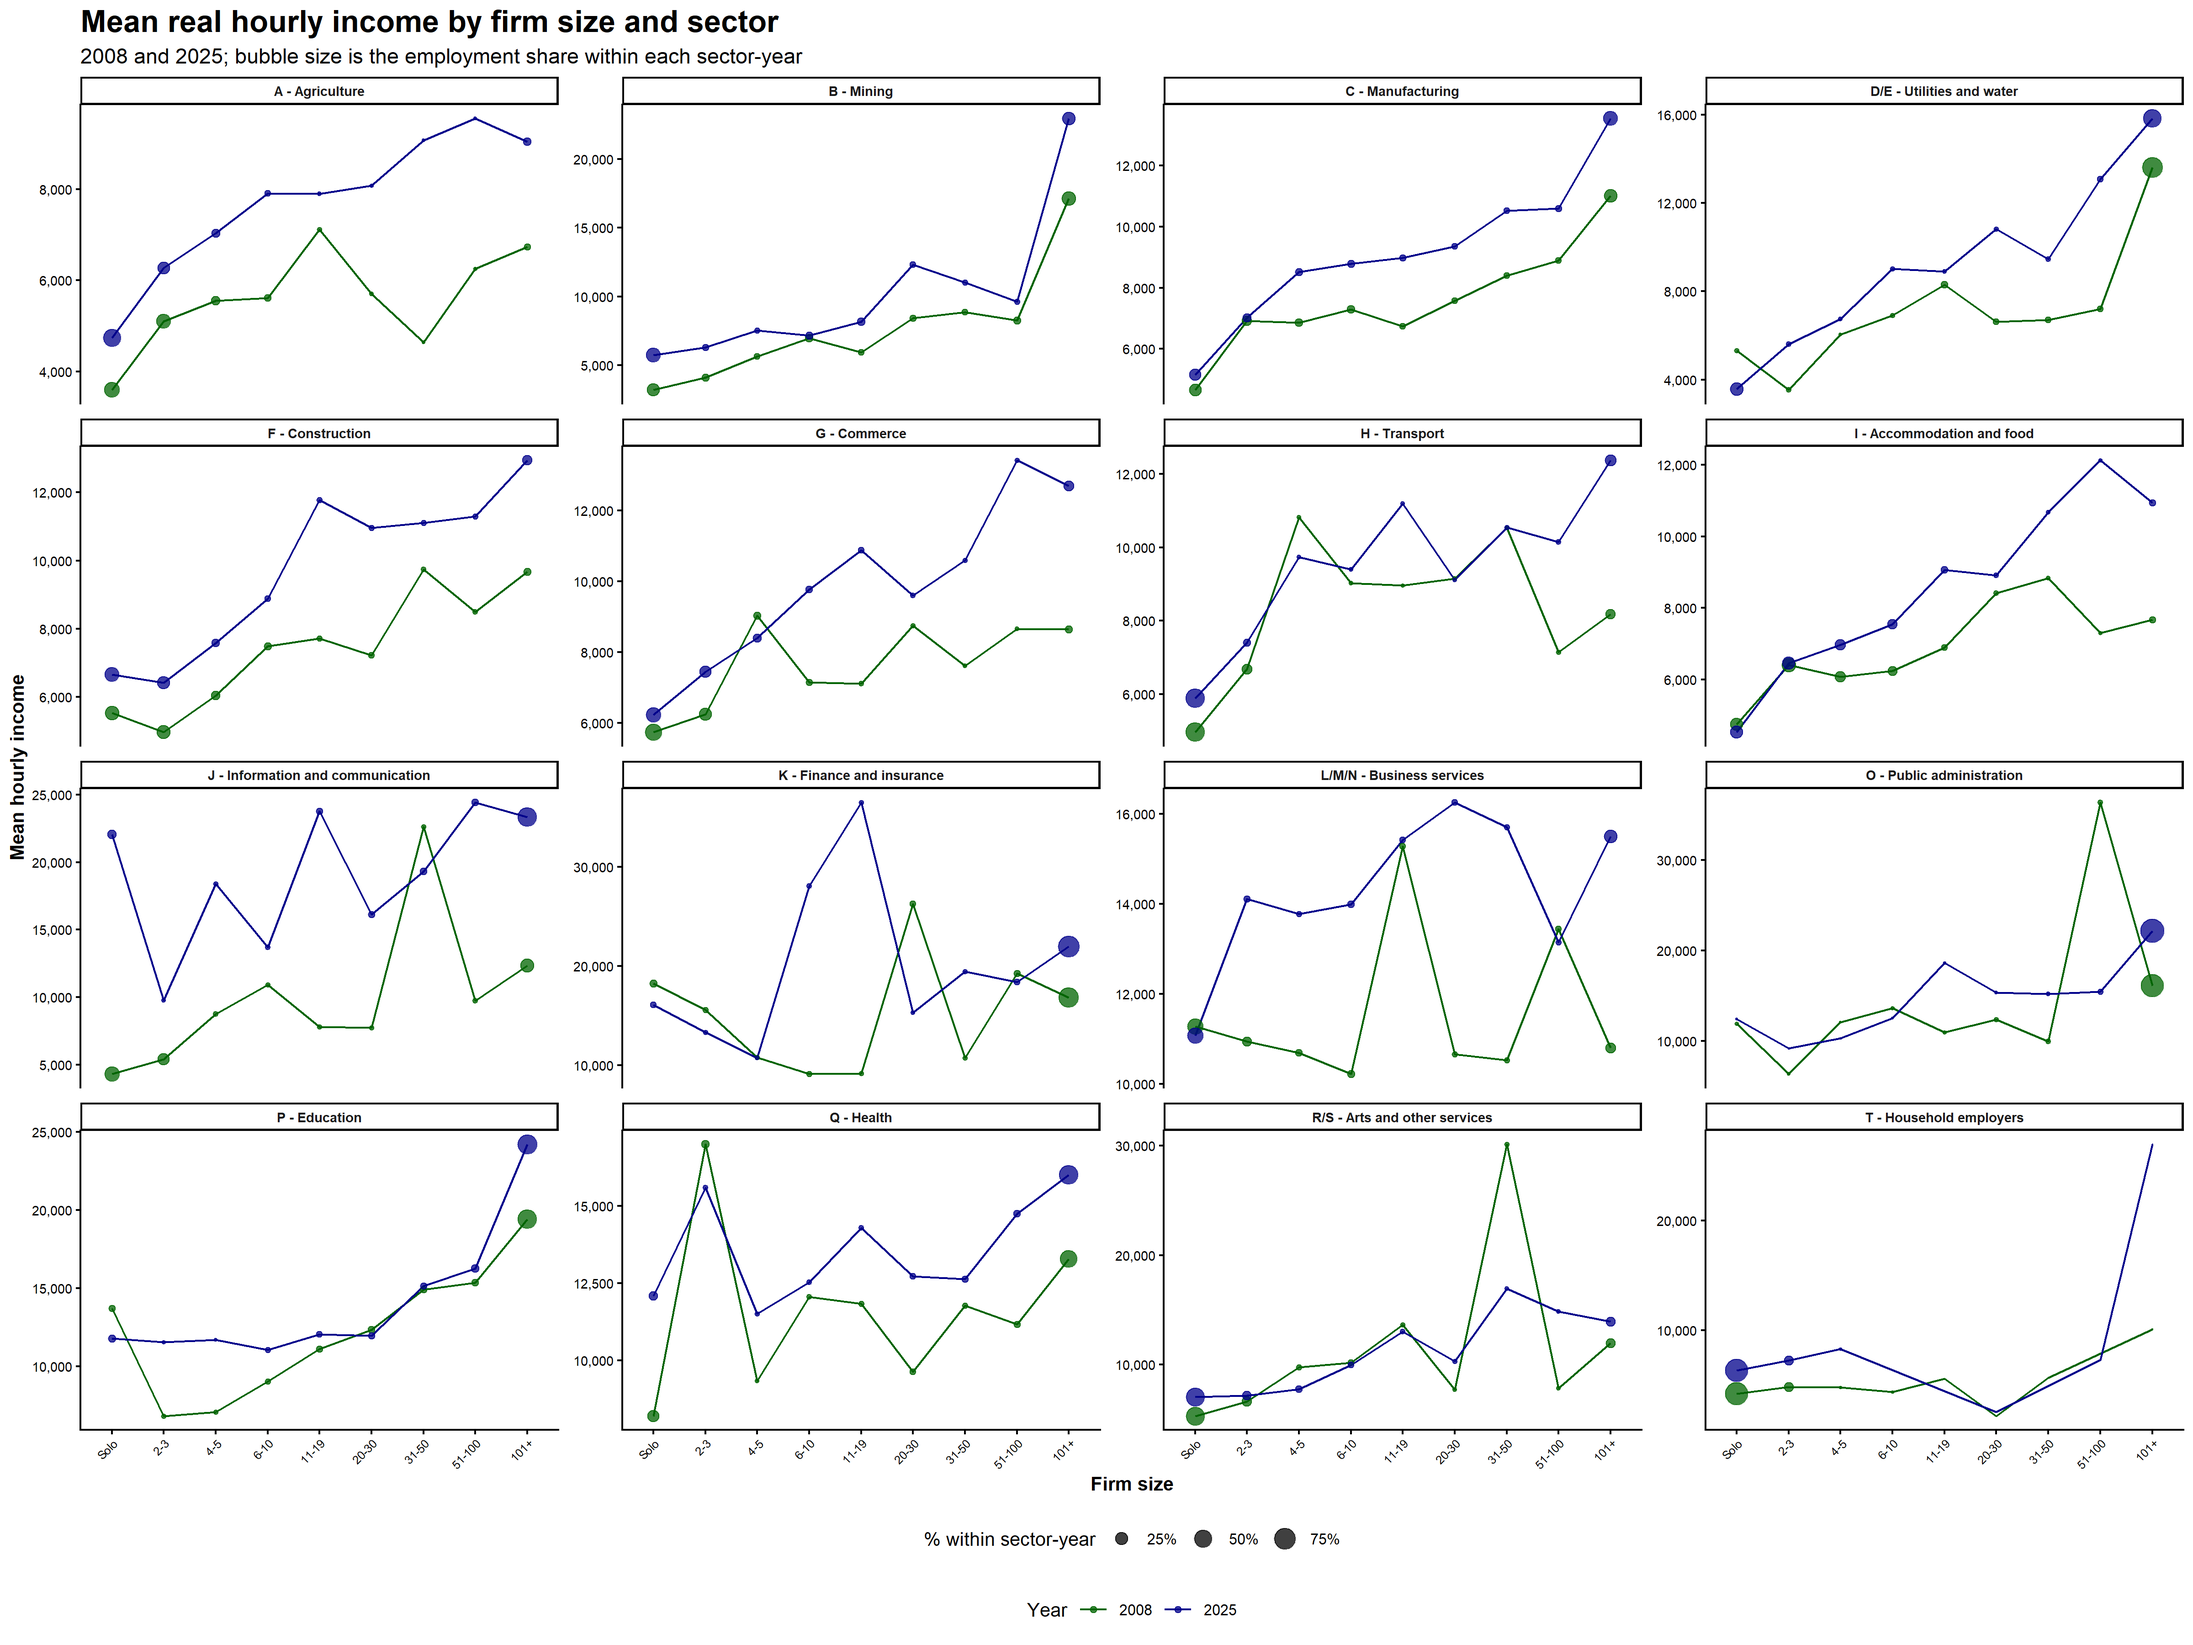
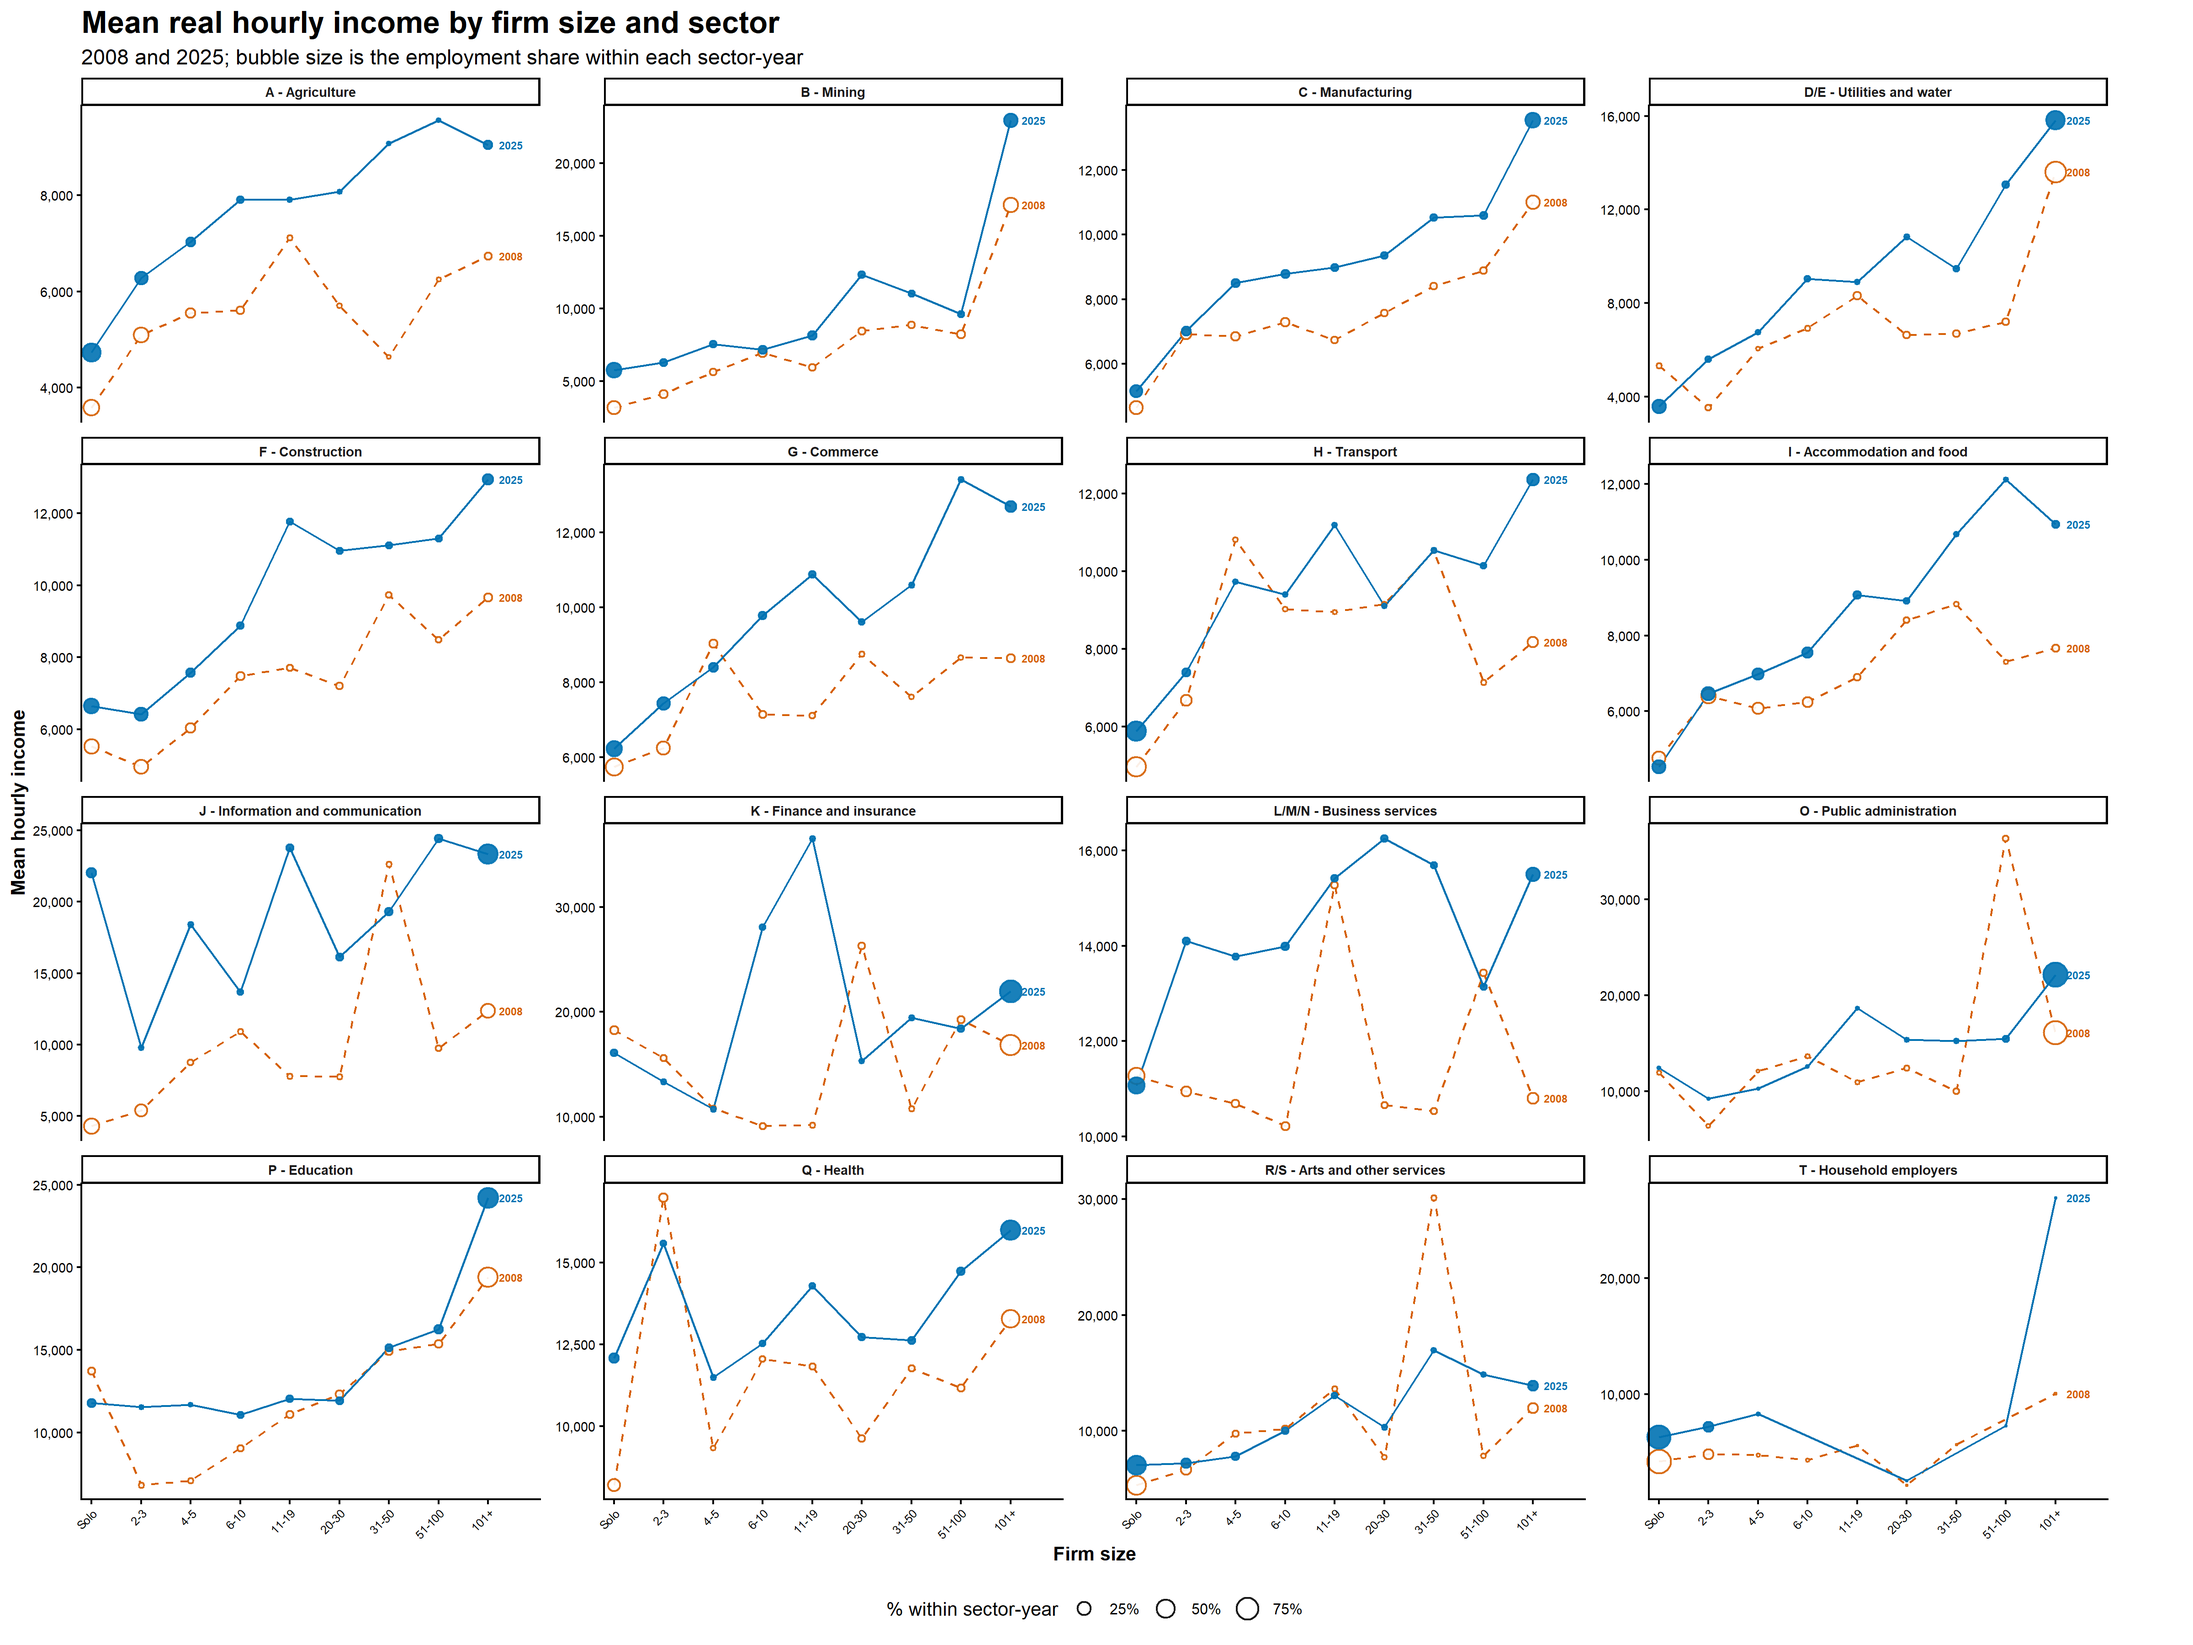
Apply endpoint line styling across comparison figures

diff --git a/Paper/sections/descriptive_2025_appendix.tex b/Paper/sections/descriptive_2025_appendix.tex
@@ -90,21 +90,21 @@ the magnitude of the gradient varies across them.
 \begin{figure}[p]
   \centering
   \includegraphics[width=0.95\textwidth]{fig70_\figurelang.png}
-  \caption{Mean real hourly income by firm size and sex, 2008 and 2025; bubble size shows each firm-size category's employment share within the corresponding sex-year}
+  \caption{Mean real hourly income by firm size and sex, 2008 and 2025; dashed hollow markers denote 2008, solid filled markers denote 2025, and bubble size shows each firm-size category's employment share within the corresponding sex-year}
   \label{fig:income-sex-comparison}
 \end{figure}
 
 \begin{figure}[p]
   \centering
   \includegraphics[width=\textwidth]{fig72_\figurelang.png}
-  \caption{Mean real hourly income by firm size and education group, 2008 and 2025; bubble size shows each firm-size category's employment share within the corresponding education-year}
+  \caption{Mean real hourly income by firm size and education group, 2008 and 2025; dashed hollow markers denote 2008, solid filled markers denote 2025, and bubble size shows each firm-size category's employment share within the corresponding education-year}
   \label{fig:income-education-comparison}
 \end{figure}
 
 \begin{figure}[p]
   \centering
   \includegraphics[width=\textwidth]{fig71_\figurelang.png}
-  \caption{Mean real hourly income by firm size and sector, 2008 and 2025; bubble size shows each firm-size category's employment share within the corresponding sector-year. The figure omits extraterritorial organizations.}
+  \caption{Mean real hourly income by firm size and sector, 2008 and 2025; dashed hollow markers denote 2008, solid filled markers denote 2025, and bubble size shows each firm-size category's employment share within the corresponding sector-year. The figure omits extraterritorial organizations.}
   \label{fig:income-sector-comparison}
 \end{figure}
 

diff --git a/Paper/sections/descriptive_statistics.tex b/Paper/sections/descriptive_statistics.tex
@@ -105,7 +105,7 @@ interest.
 \begin{figure}[!htbp]
   \centering
   \includegraphics[width=0.95\textwidth]{fig69_\figurelang.png}
-  \caption{Mean real hourly income by firm size and formality status, 2008 and 2025}
+  \caption{Mean real hourly income by firm size and formality status, 2008 and 2025; dashed hollow markers denote 2008, solid filled markers denote 2025, and bubble size shows each firm-size category's employment share within the corresponding formality-year}
   \label{fig:income-formality-comparison}
 \end{figure}
 
